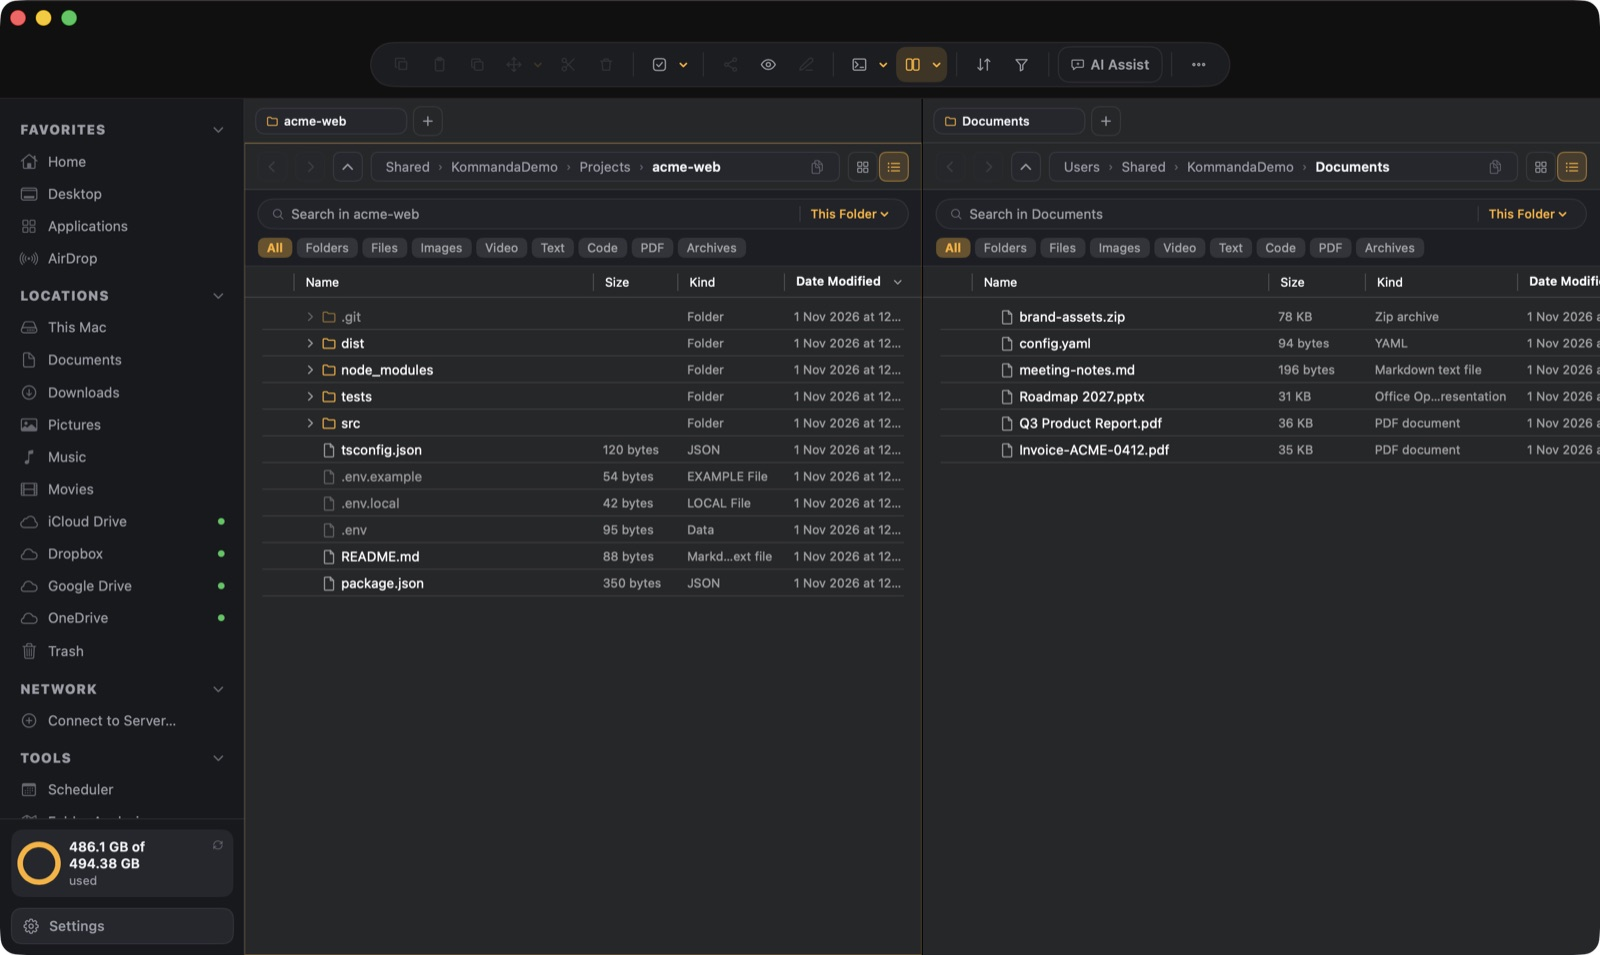
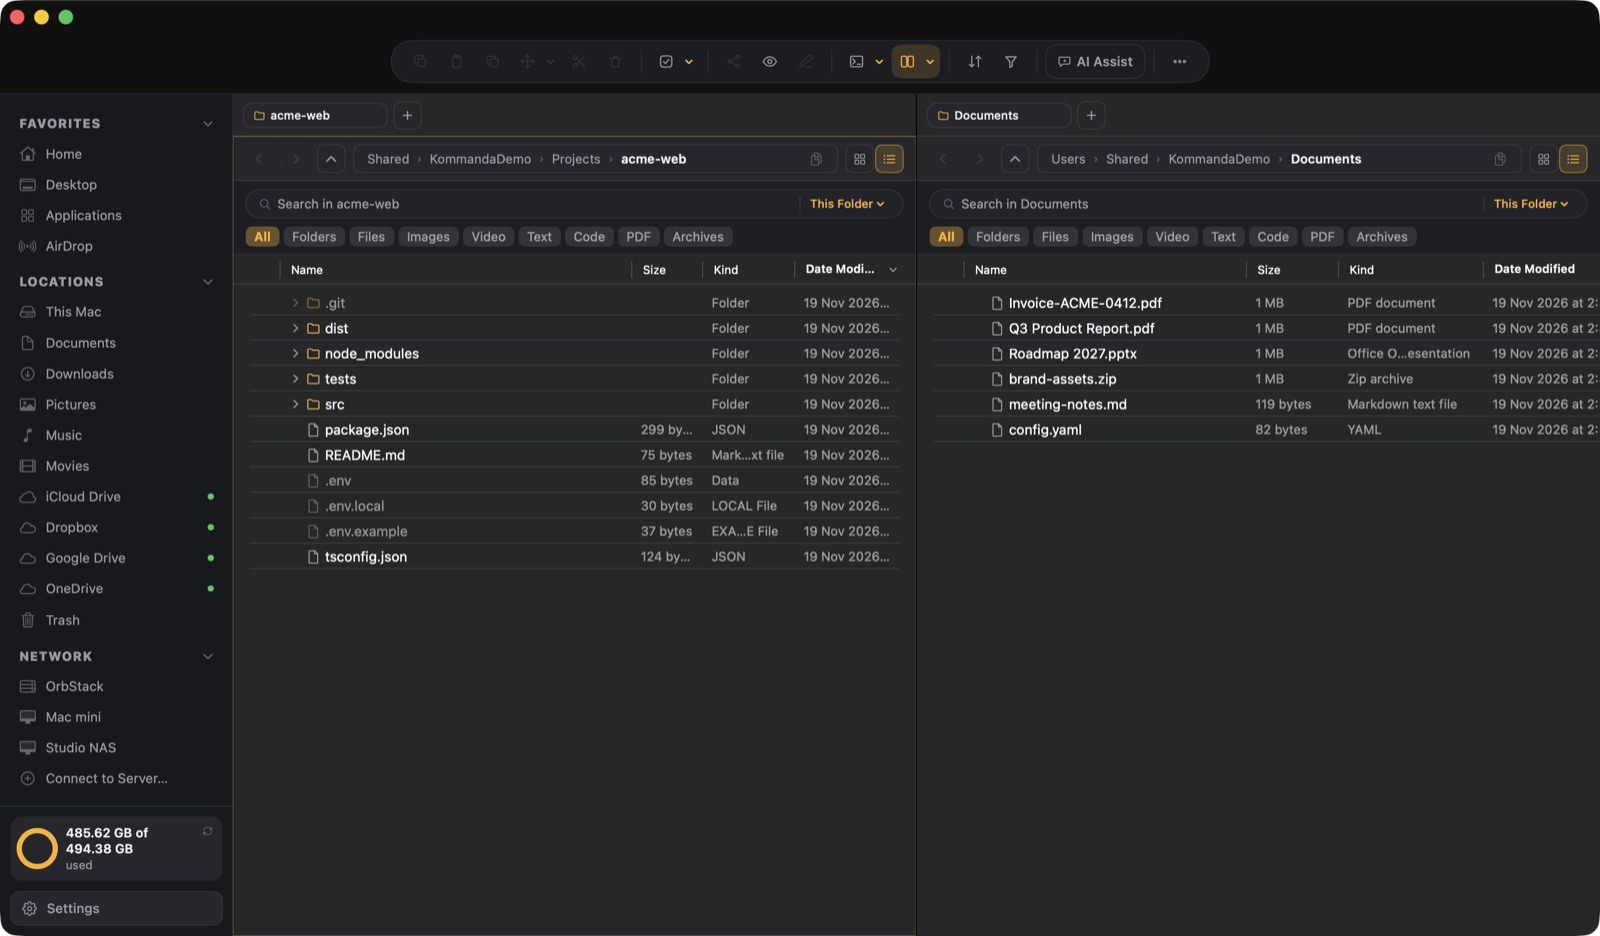
Fresh 2.30 screenshots: hero, network sidebar, Folder Analysis

diff --git a/index.html b/index.html
@@ -195,15 +195,15 @@
   <div class="head">
     <p class="eyebrow">See it work</p>
     <h2>Real app, <em class="s">not mockups.</em></h2>
-    <p class="lead">Every picture below is a real Kommanda 2.27 window — no mockups, no retouching beyond hiding a username.</p>
+    <p class="lead">Every picture below is a real Kommanda window — no mockups, no retouching beyond hiding a username.</p>
   </div>
   <div class="gallery">
     <div class="shot"><img src="assets/images/v2/01-hero-dual.jpg" alt="Kommanda with a project on the left and documents on the right" loading="lazy"><div><b>Source on the left, target on the right</b><p>Move work between folders without juggling Finder windows. F5 copies, F6 moves, Tab switches sides.</p></div></div>
     <div class="shot"><img src="assets/images/v2/10-reclaim-start.jpg" alt="The junk remover listing cleanup categories, each marked Safe or Rebuild" loading="lazy"><div><b>Junk, sorted by how it comes back</b><p>Every category says how it regenerates — “Safe” comes back on its own, “Rebuild” after an install. Your picks go to the Trash.</p></div></div>
-    <div class="shot"><img src="assets/images/v2/09-folder-analysis.jpg" alt="Folder Map showing folders sized by disk use" loading="lazy"><div><b>See where your disk went</b><p>Folder Map sizes every folder at a glance — hidden ones like <code>Library</code> included — so the one eating the space stands out. Click any folder to see what fills it, then step back instantly.</p></div></div>
+    <div class="shot"><img src="assets/images/v2/09-folder-analysis.jpg" alt="Folder Map showing folders sized by disk use, with Back and Up buttons" loading="lazy"><div><b>See where your disk went</b><p>Folder Map sizes every folder at a glance — hidden ones like <code>Library</code> included — so the one eating the space stands out. Click any folder to see what fills it, then step back instantly.</p></div></div>
     <div class="shot"><img src="assets/images/v2/05-pptx-preview.jpg" alt="A PowerPoint deck in the preview panel with Accurate Preview and Open in PowerPoint" loading="lazy"><div><b>Slides that look like slides</b><p>One click renders a deck exactly through Keynote or PowerPoint — instead of Quick Look's guess.</p></div></div>
     <div class="shot"><img src="assets/images/v2/02-code-preview.jpg" alt="A TypeScript file with syntax highlighting in the preview panel" loading="lazy"><div><b>Read code without opening an editor</b><p>Syntax highlighting for dozens of languages, with search and replace right in the preview.</p></div></div>
-    <div class="shot"><img src="assets/images/v2/08-connect-server.jpg" alt="The Connect to Server dialog" loading="lazy"><div><b>Your network, in the sidebar</b><p>Macs, PCs and NAS drives sharing files on your network show up in the sidebar by themselves — click one to connect. Or type any SMB, AFP, NFS or WebDAV address with ⇧⌘K.</p></div></div>
+    <div class="shot"><img src="assets/images/v2/08-connect-server.jpg" alt="The sidebar Network section listing a Mac mini and a NAS found on the network" loading="lazy"><div><b>Your network, in the sidebar</b><p>Macs, PCs and NAS drives sharing files on your network show up in the sidebar by themselves — click one to connect. Or type any SMB, AFP, NFS or WebDAV address with ⇧⌘K.</p></div></div>
     <div class="shot"><img src="assets/images/v2/06-image-preview.jpg" alt="An image in the preview with Crop, Adjust, Filters and Copy" loading="lazy"><div><b>Quick image fixes</b><p>Crop, rotate, filter, or copy the picture straight into a chat — without opening another app.</p></div></div>
     <div class="shot"><img src="assets/images/v2/12-get-info.jpg" alt="Get Info for 18 selected files at once" loading="lazy"><div><b>Get Info for many files at once</b><p>One window, every file, and a total — not eighteen Finder windows.</p></div></div>
   </div>
